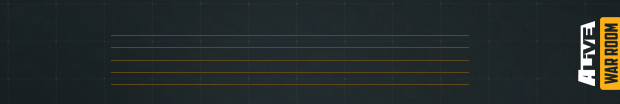
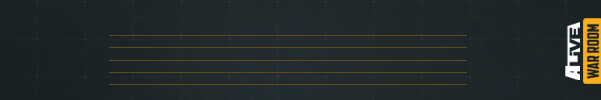
sig updates

diff --git a/app/lib/Alive/SigGenerate.php b/app/lib/Alive/SigGenerate.php
@@ -36,16 +36,16 @@ class SigGenerate {
         $avatar = $public.$avatar;
         $clantar = $public.$clantar;
 
-        $sig = $this->imagine->create(new Box(620, 104));
+        $sig = $this->imagine->create(new Box(601, 100));
 
-        $avatar = $this->resizeAuto($avatar, 104, 104);
-        $clantar = $this->resizeAuto($clantar, 100, 100);
+        $avatar = $this->resizeAuto($avatar, 100, 100);
+        $clantar = $this->resizeAuto($clantar, 95, 95);
 
         $background = $this->imagine->open($public.'/sigs/assets/background.png');
 
         $sig->paste($background, new Point(0, 0));
         $sig->paste($avatar, new Point(0, 0));
-        $sig->paste($clantar, new Point(475, 2));
+        $sig->paste($clantar, new Point(468, 2));
 
         $colorWhite = new Color('#ffffff');
         $colorYellow = new Color('#ffa900');
